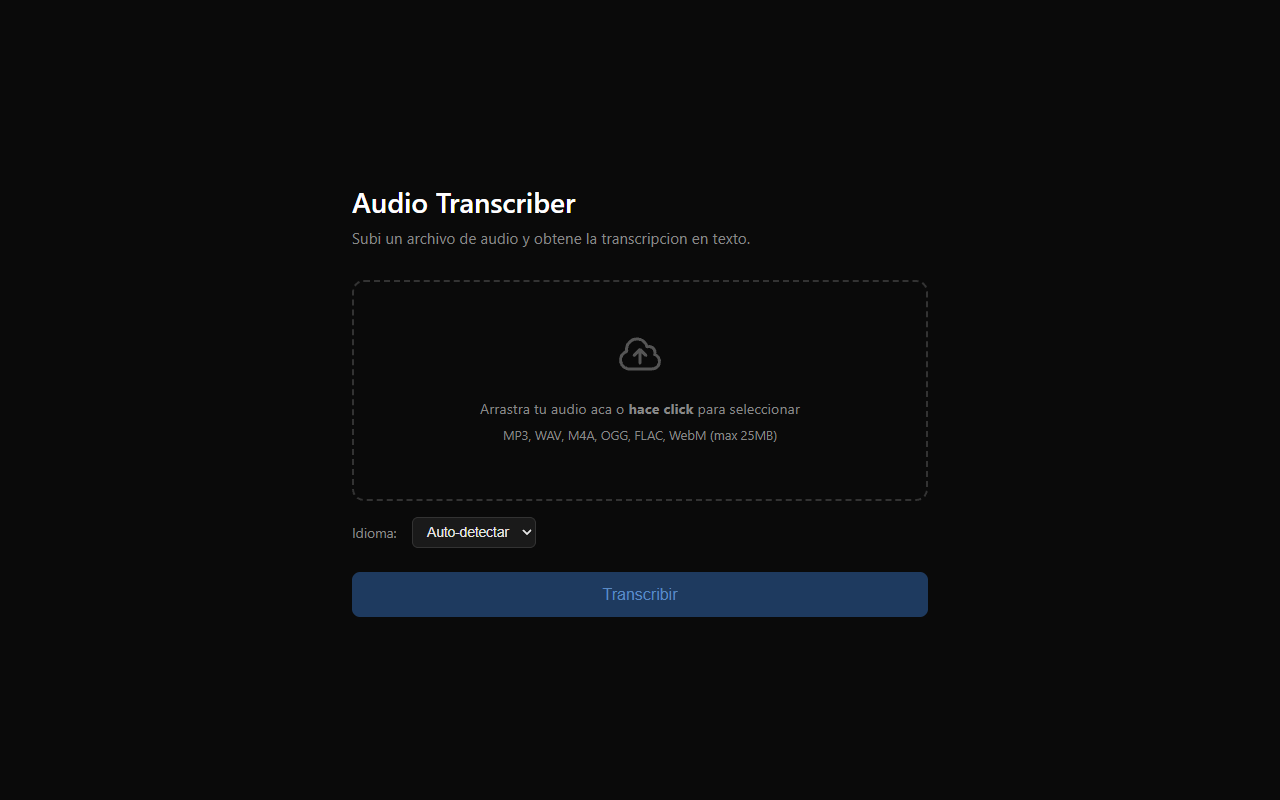
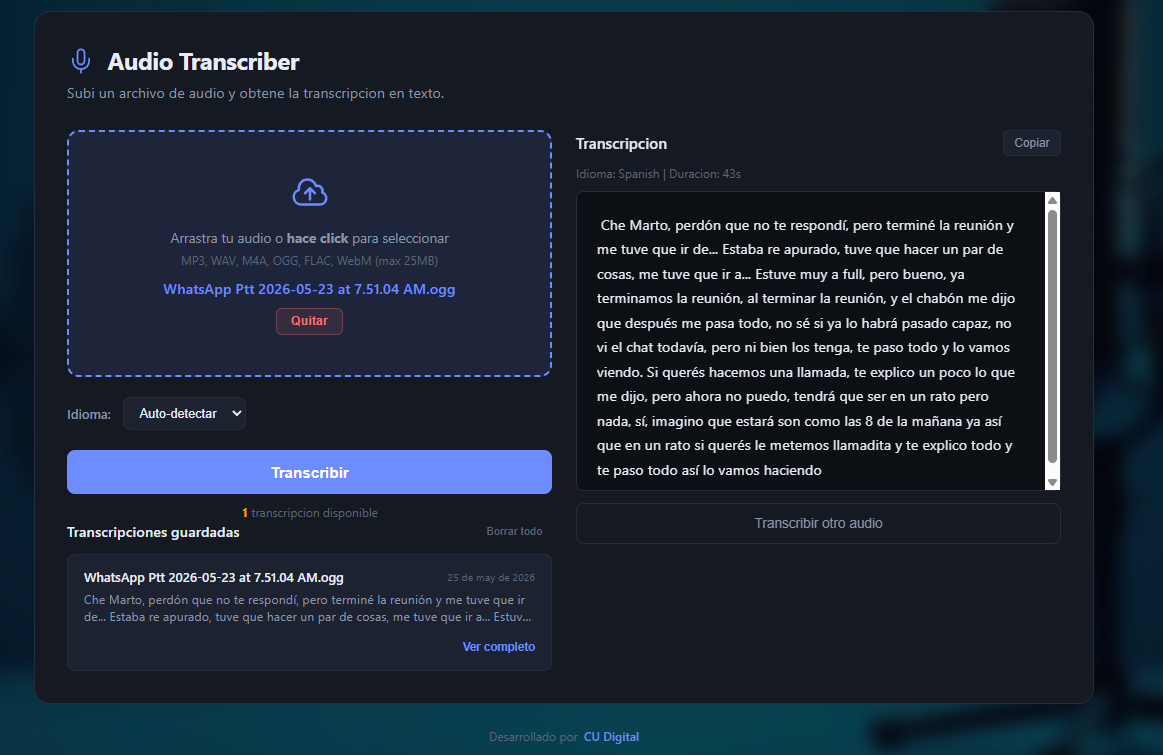
feat: update Audio Transcriber screenshot, remove video

diff --git a/src/config/portfolioInfo.js b/src/config/portfolioInfo.js
@@ -1,8 +1,8 @@
 export const portfolioInfo = {
   lastUpdate: {
     date: '25 de mayo de 2026',
-    time: '20:00',
-    full: '25 de mayo de 2026, 20:00',
+    time: '20:30',
+    full: '25 de mayo de 2026, 20:30',
   },
 
   developer: {

diff --git a/src/components/GitTimeline/GitTimeline.js b/src/components/GitTimeline/GitTimeline.js
@@ -74,7 +74,7 @@ export const getProjects = (t) => [
   { key: 'theriapp', name: 'TheriApp', category: 'mobile', tag: 'Mobile + IA', featured: true, description: t.projects.theriapp.description, duration: t.projects.theriapp.duration },
   { key: 'mlscouting', name: 'ML Scouting', category: ['webapp', 'landing'], tag: 'Web App', featured: true, description: t.projects.mlscouting.description, duration: t.projects.mlscouting.duration },
   { key: 'laboralforge', name: 'Laboral Forge', category: 'landing', tag: 'Landing', featured: true, description: t.projects.laboralforge.description, duration: t.projects.laboralforge.duration },
-  { key: 'audiotranscriber', name: 'Audio Transcriber', category: 'webapp', tag: 'SaaS', featured: true, video: '/videos/audio-transcriber.mp4', description: t.projects.audiotranscriber.description, duration: t.projects.audiotranscriber.duration },
+  { key: 'audiotranscriber', name: 'Audio Transcriber', category: 'webapp', tag: 'SaaS', featured: true, description: t.projects.audiotranscriber.description, duration: t.projects.audiotranscriber.duration },
   { key: 'elyfitness', name: 'Ely Fitness', category: ['landing', 'webapp'], tag: 'Prototipo', featured: true, description: t.projects.elyfitness.description, duration: t.projects.elyfitness.duration },
   { key: 'triso', name: 'Triso', category: 'landing', tag: 'Landing', featured: true, description: t.projects.triso.description, duration: t.projects.triso.duration },
   { key: 'djdivito', name: 'DJ DiVito', category: 'landing', tag: 'Landing', featured: true, description: t.projects.djdivito.description, duration: t.projects.djdivito.duration },